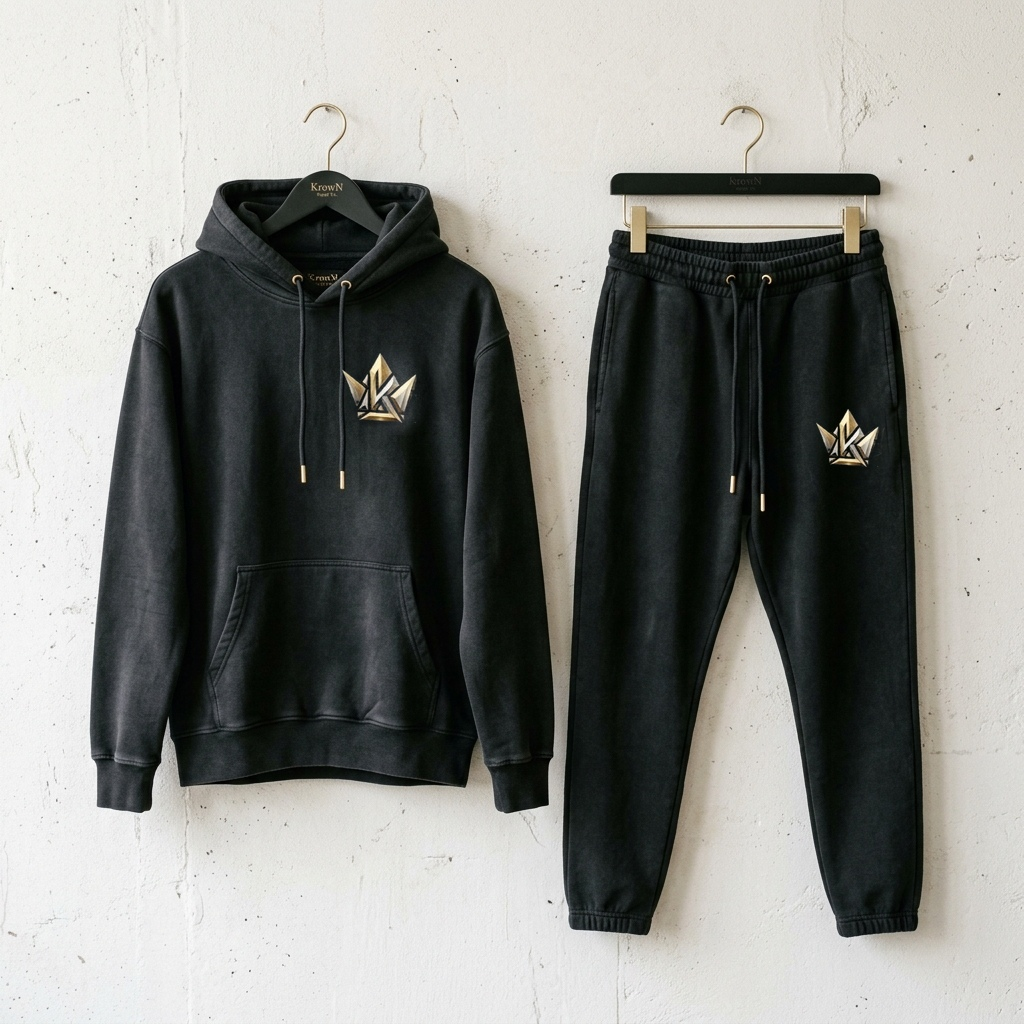
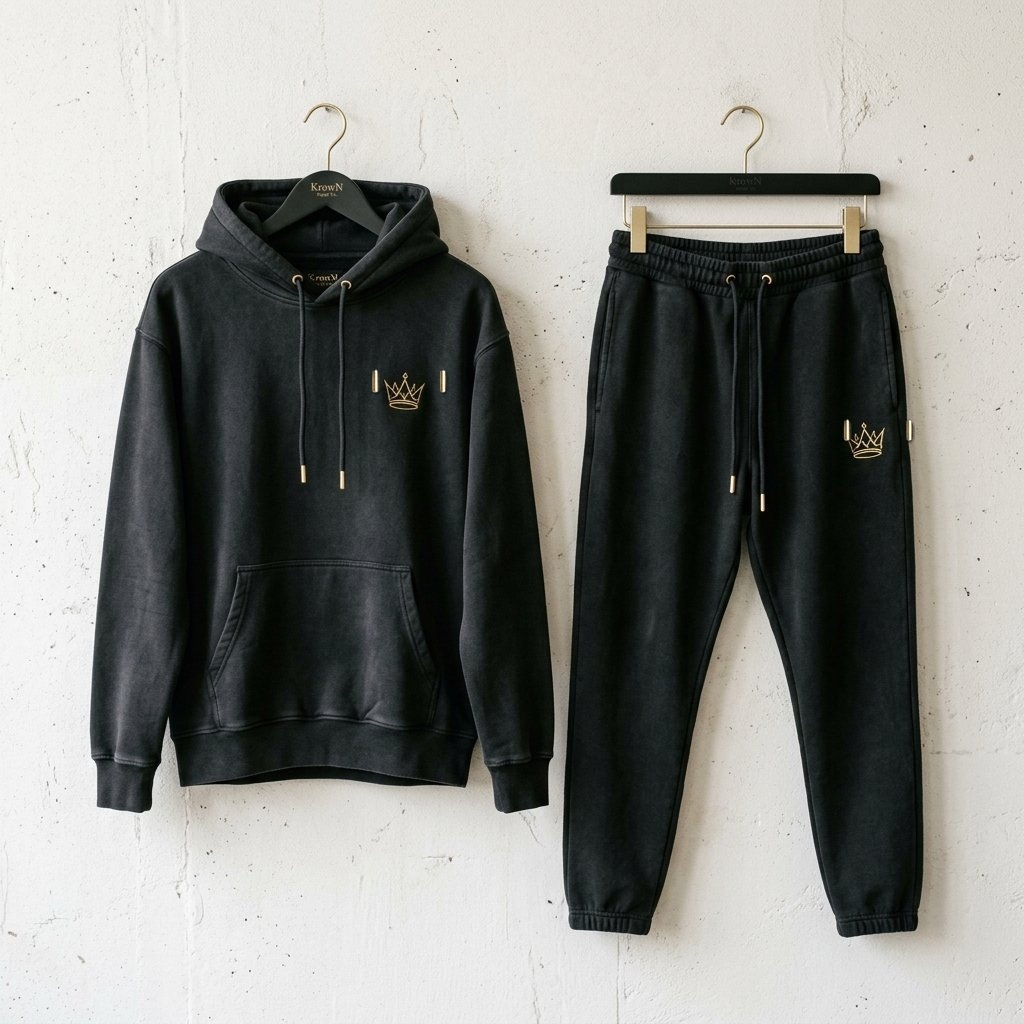
fix(streetwear): restore clean unedited heather fabric base with pure transparent direct-embroidered gold crown crests (v10)

Changed region(s): [[0.3438, 0.3438, 0.4375, 0.4375], [0.7812, 0.4062, 0.9062, 0.4688]]

diff --git a/src/services/printify.ts b/src/services/printify.ts
@@ -154,7 +154,7 @@ const INITIAL_MOCK_CATALOG: CatalogProduct[] = [
     baseCost: 52.00,
     printCost: 15.00,
     images: [
-      '/images/products/krown-streetwear-set-photoreal-v6.jpg',
+      '/images/products/krown-streetwear-set-photoreal-v10.jpg',
       '/images/products/krown-supply-premium-hoodie-front.jpg',
       '/images/products/krown-supply-premium-sweatpants.jpg',
     ],

diff --git a/scripts/deploy_perfect_streetwear_set_v10.py b/scripts/deploy_perfect_streetwear_set_v10.py
@@ -1,0 +1,82 @@
+import os
+import shutil
+from PIL import Image, ImageFilter
+import numpy as np
+
+BASE_DIR = os.path.dirname(os.path.dirname(os.path.abspath(__file__)))
+PROD_DIR = os.path.join(BASE_DIR, 'public', 'images', 'products')
+MASTERS_DIR = os.path.join(PROD_DIR, 'masters')
+
+def build_perfect_streetwear_set():
+    print("Building pristine transparent streetwear set (v10)...")
+    
+    # 1. Load original clean base photo (zero donor tiles, zero smudges)
+    base = Image.open('test_initial_streetwear_set.jpg').convert('RGBA')
+
+    # 2. Load isolated pure alpha embroidered crown
+    crown = Image.open('test_isolated_embroidered_crown.png').convert('RGBA')
+
+    # Hoodie crown
+    tw_h = 78
+    th_h = int(tw_h * crown.height / crown.width)
+    crown_h = crown.resize((tw_h, th_h), Image.Resampling.LANCZOS)
+    pos_hx = 370
+    pos_hy = 368
+
+    # Sweatpants crown
+    tw_p = 72
+    th_p = int(tw_p * crown.height / crown.width)
+    crown_p = crown.resize((tw_p, th_p), Image.Resampling.LANCZOS)
+    pos_px = 842
+    pos_py = 418
+
+    # Soft contact shadows
+    shadow_canvas = Image.new('RGBA', base.size, (0, 0, 0, 0))
+
+    alpha_h = crown_h.split()[3]
+    s_mask_h = alpha_h.filter(ImageFilter.GaussianBlur(radius=1.8))
+    s_layer_h = Image.new('RGBA', (tw_h, th_h), (5, 5, 8, 140))
+    s_layer_h.putalpha(s_mask_h)
+    shadow_canvas.paste(s_layer_h, (pos_hx + 1, pos_hy + 2), mask=s_mask_h)
+
+    alpha_p = crown_p.split()[3]
+    s_mask_p = alpha_p.filter(ImageFilter.GaussianBlur(radius=1.8))
+    s_layer_p = Image.new('RGBA', (tw_p, th_p), (5, 5, 8, 140))
+    s_layer_p.putalpha(s_mask_p)
+    shadow_canvas.paste(s_layer_p, (pos_px + 1, pos_py + 2), mask=s_mask_p)
+
+    # Composite
+    result = Image.alpha_composite(base, shadow_canvas)
+    result.paste(crown_h, (pos_hx, pos_hy), mask=alpha_h)
+    result.paste(crown_p, (pos_px, pos_py), mask=alpha_p)
+
+    final = result.convert('RGB')
+    
+    # Save to v10 target
+    v10_path = os.path.join(PROD_DIR, 'krown-streetwear-set-photoreal-v10.jpg')
+    final.save(v10_path, quality=96)
+    final.save(os.path.join(MASTERS_DIR, 'krown-streetwear-set-photoreal-v10.jpg'), quality=96)
+    print(f"Saved {v10_path}")
+
+    # Overwrite legacy targets to eliminate any stale cache
+    legacy_targets = [
+        'krown-streetwear-set-photoreal-v6.jpg',
+        'krown-streetwear-set-clean-v5.jpg',
+        'krown-streetwear-set-clean-v4.jpg',
+        'krown-streetwear-set-black.jpg',
+        'krown-streetwear-set-v2.jpg',
+        'krown-streetwear-set-v3.jpg',
+        'krown-supply-streetwear-set.jpg',
+        'orig_streetwear_set.jpg'
+    ]
+    for target in legacy_targets:
+        p = os.path.join(PROD_DIR, target)
+        m = os.path.join(MASTERS_DIR, target)
+        final.save(p, quality=96)
+        if os.path.exists(os.path.dirname(m)):
+            final.save(m, quality=96)
+
+    print("SUCCESS: Deployed pristine transparent streetwear set to all targets!")
+
+if __name__ == '__main__':
+    build_perfect_streetwear_set()
